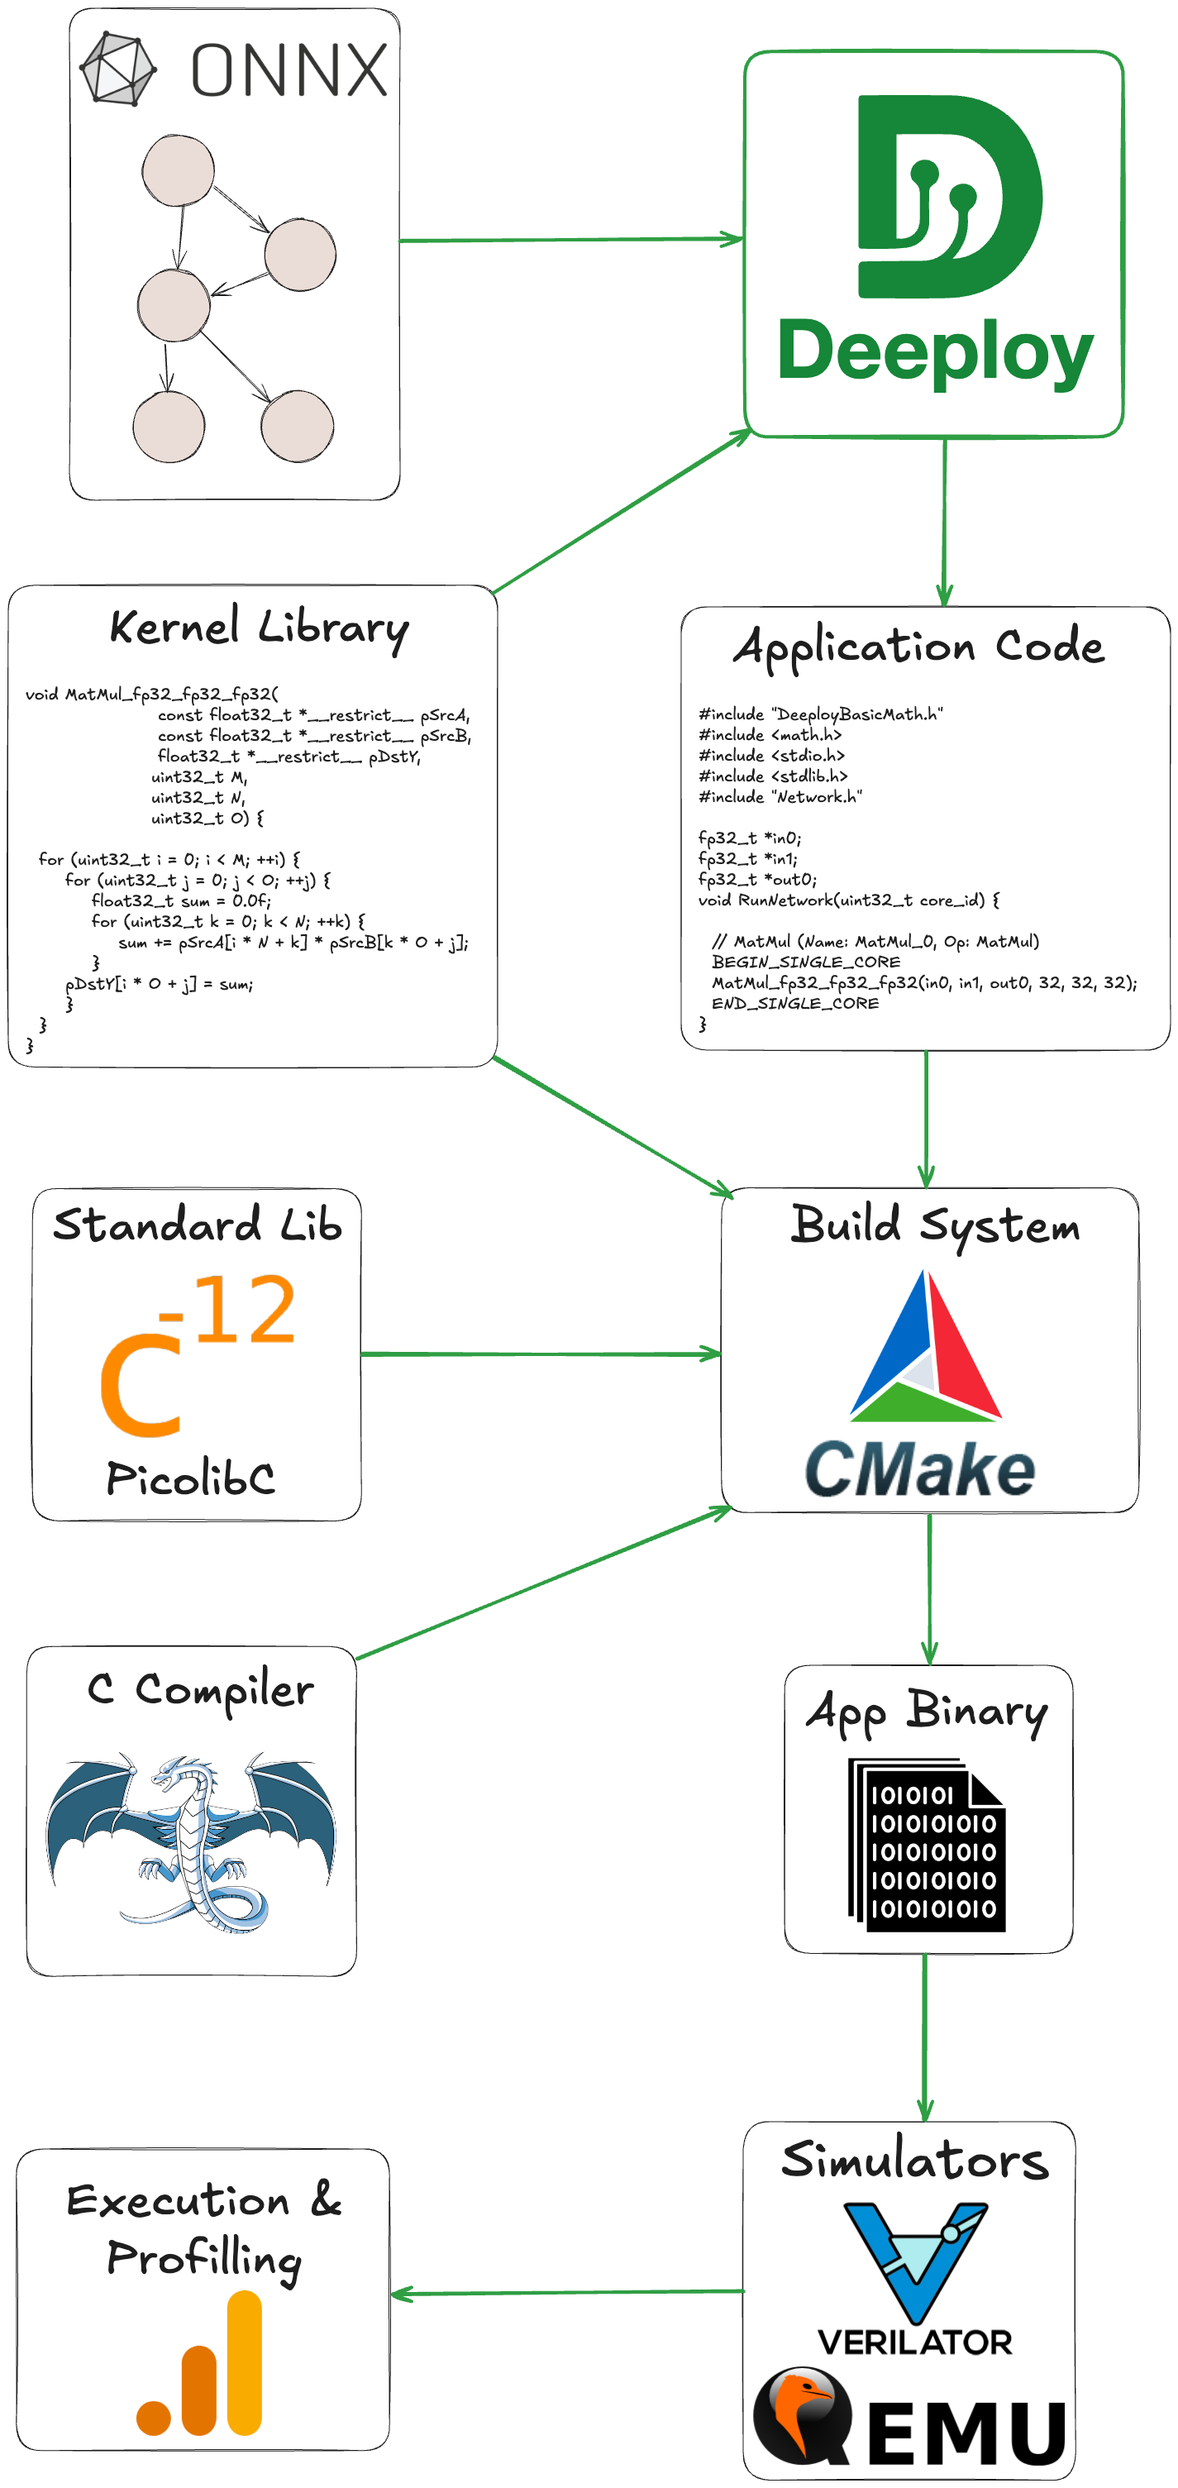
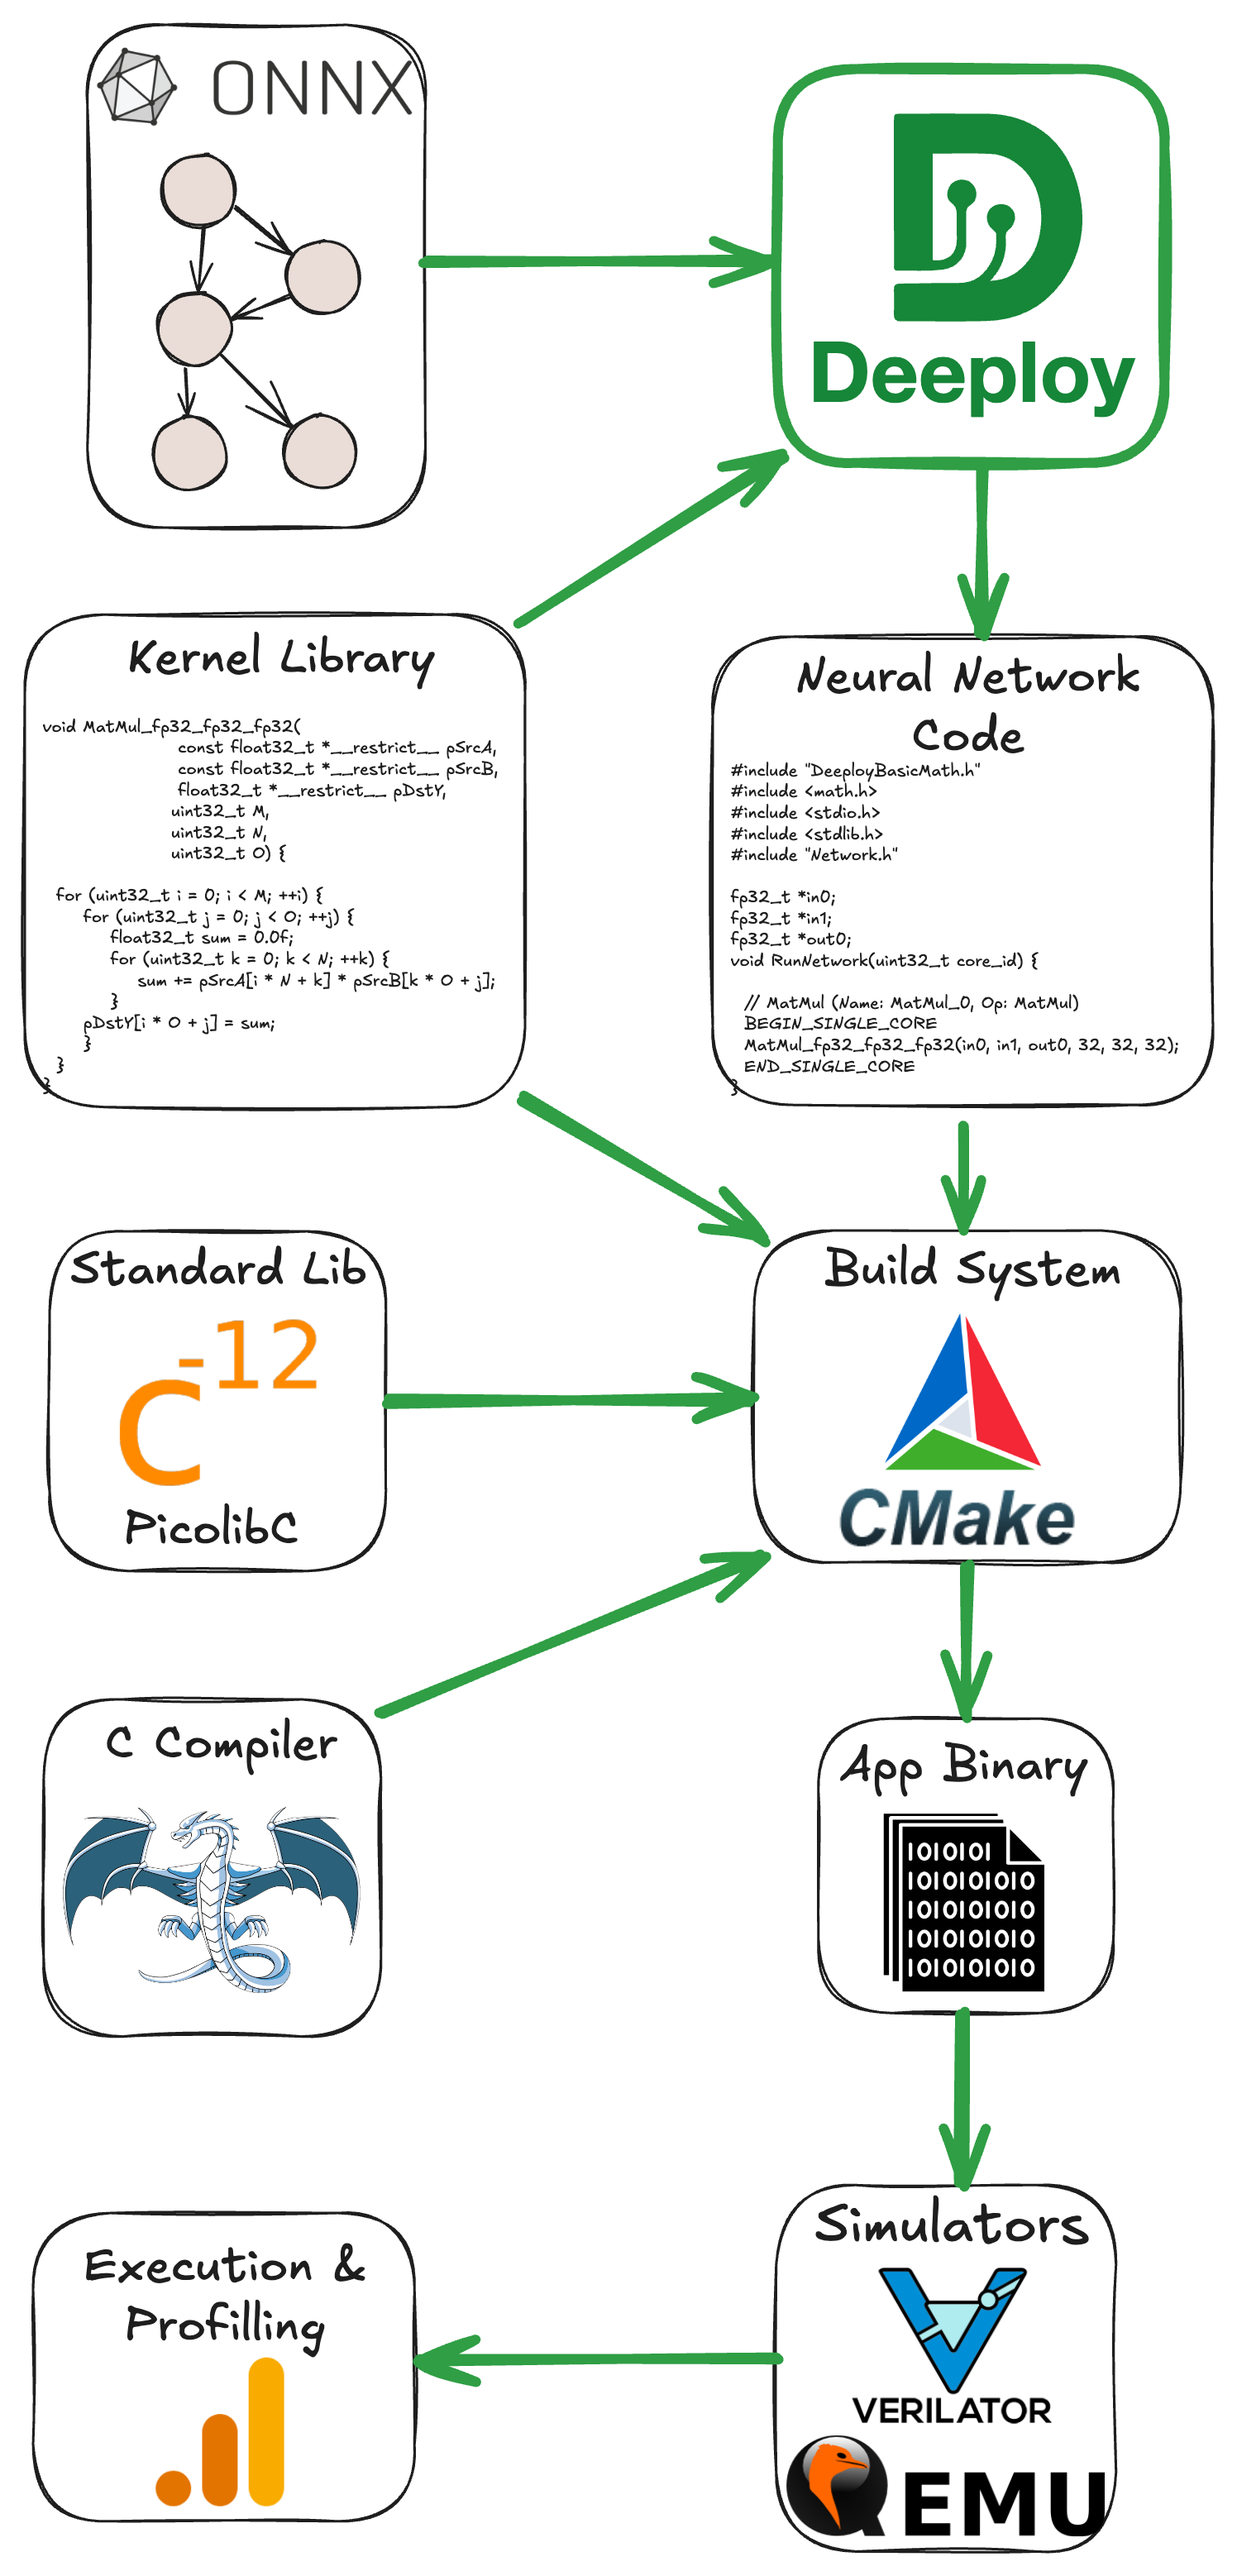
Update figures and first section done

diff --git a/Tutorials/SoCDAML.md b/Tutorials/SoCDAML.md
@@ -13,9 +13,9 @@ Date: 27th May 2025
 
 ## Installation
 
-A Deeploy Singularity container has been installed on your home directory, it should be a folder named `DeeployContainer`. You can find the `Deeploy` source code under `~/DeeployContainer/app/Deeploy`.
+A Singularity container with Deeploy and its dependencies has been installed on your home directory, it should be a folder named `DeeployContainer`. You can find the `Deeploy` source code under `~/DeeployContainer/app/Deeploy`.
 
-To enter a shell from the conatainer, from your home, simply run `singularity shell --writable --cleanenv --contain DeeployContainer`. Then you can naviguate to the `DeeployTest` folder with `cd /app/Deeploy/Deeploytest`.
+To enter a shell from the container, from your home, simply run `singularity shell --writable --cleanenv --contain DeeployContainer`. Then you can naviguate to the `DeeployTest` folder with `cd /app/Deeploy/Deeploytest`.
 
 From the `DeeployTest` folder you can use the `testRunner` to compile ONNXs and execute the output code with the appropriate simulators.
 
@@ -30,27 +30,118 @@ python testRunner_siracusa.py -t Tests/Adder --cores=8
 ```
 Once all these basic tests are passing, we can jump into the basics of Deeploy. 
 
-## I: Deeploy 101
+## I : Deeploy 101
 
-Paragraph to introduce Deeploy's I/O
+Deeploy is a compiler that transforms static computational graph (represented with the [ONNX format](https://onnx.ai/onnx/operators/)) into baremetal and (hopefully) optimized [C](https://www.c-language.org/). More specifically, it generates an application than can then be deployed on the desired platform.
 
-![Deeploy's System](Images/DeeploySystem.png)
+Hence, Deeploy's inputs are:
+- An ONNX file describing your neural network.
+- Input tensors.
+- Expected output tensors generated with your favorite framework (ONNXRuntime or Torch for instance).
 
-- Format of the tests and how to visualize the ONNX using Netron
-    - Visualize Add
-    - Visualize ResNet
-    - Visualize MicroLlama
-- Look at the generated code for the Adder on Generic -> Point at the Add kernel template in Deeploy
+Deeploy is shipped with a comprehensive testing framework conveniently named DeeployTest. This testing framework contains Test Runners for end-to-end testing of your network on a given platform. More specifically, a Test Runner compiles a given ONNX file, builds the project, feed the given inputs into the compiled neural network, and compare the output with the golden values to ensure correctness.
 
-## II: Tiny Llama on Siracusa
+If you followed this tutorial correctly, you already used Test Runners (e.g. `testRunner_siracusa.py`) to validate the Deeploy installation! We will dive into the details of the Test Runners CLI very soon, but first let's take a look at the tools and libraries used downstream of Deeploy.
 
-- Explain the impact of the arguments of the command line for executing tiny llama on Siracusa
+The figure below gives an overview of the deployment stack, as you can see, there are several steps before actually running the application. For the build system (*e.g.* the tool to organize compilation and linking), we use [CMake](https://cmake.org/). The default C compiler shipped with Deeploy is [LLVM 15](https://llvm.org/), but it supports GCC given that you provide a local installation. To generate the Application Binary, we link the Network Code with the necessary Kernel Libraries and a Standard C Library (here [Picolibc](https://github.com/picolibc/picolibc)). Then we feed this Application Binary to the appropriate simulator, from there you can verify correctness and benchmark the application.
+
+<p align="center">
+    <img src="Images/DeeploySystem.png" alt="Description" width="60%">
+</p>
+
+You can visualize the ONNX graphs using [Netron](https://netron.app/). Either use the webinterface or install the python package with `pip install netron`.
+
+> ✅ **Task:** Visualize the ONNX graph of the `Adder`, `MobileNetv2`, and `Transformer` 
+
+You can find the ONNX graphs in `DeeployTest/Tests/<TestName>/network.onnx`. The networks are increasing in complexity, `Adder` is a single node network for unit testing, while `MobileNetv2` is a simple sequential network mostly made of convolutions. Finally the `Transformer` network showcase a typical transformer block used both in Encoder or Decoder networks. If you want to peek at a very complex network, you can visualize `microLlama/microLlama128`.
+
+Now that we understand Deeploy's input, let's check the output generated code!
+
+> ✅ **Task:** Take a look at the code generated by Deeploy for the Generic platform.
+
+The generated code is located in the following directory: `DeeployTest/TEST_<PlatformName>` and the `Network.c` file is the interesting one. 
+
+For the `Adder` graph, the generated code is trivial, we simply use the template for the `Add` node of the Generic platform. You can find the template declaration in `Deeploy/Targets/Generic/Templates/AddTemplate.py`.
+
+Now if you want to look at something a bit more complex, run `python testRunner_generic.py  -t ./Tests/miniMobileNetv2` (from `DeeployTest`) and take a look at the generated code. There are two interesting points you can notice:
+- We hoist the constants at the top of the file.
+- Then in the `RunNetwork` function, we sequentially have node templates to execute the operands and malloc/free to manage the memory. You can open the ONNX graph of `miniMobileNetv2` on the side to try to match nodes of the graph with their generated code.
+
+> ✅ **Task:** Visualize the effect of passes on the ONNX graph for the Siracusa platform.
+
+Deeploy applies passes on the ONNX graph to transformer its topology in order to optimize its execution. Let's visualize the effect of the passes used in the Siracusa Platform. First, let's execute our `miniMobileNetv2` on Siracusa with `python testRunner_siracusa.py  -t ./Tests/miniMobileNetv2`. You can find the original ONNX graph at `Tests/miniMobileNetv2/network.c`, and the transformed ONNX graph at `DeeployTest/TEST_SIRACUSA/Tests/miniMobileNetv2/deeployStates/backend_post_binding.onnx`. Open both ONNX graphs side by side to compare them.
+
+You can notice the effect of two passes on the graph:
+- One pass is fusing the `Conv` and `RequantShift` nodes. This is a common technique named [Operator Fusion](https://medium.com/data-science/how-pytorch-2-0-accelerates-deep-learning-with-operator-fusion-and-cpu-gpu-code-generation-35132a85bd26) and used in many DNN compilers.
+- Another pass is adding a `Transpose` node before the `RequantizedConv` in order to align the tensor layout from CHW to HWC (where C = Channels, H = Height, and W = Width). The HWC tensor layout is required to use optimized Convolution kernels (to learn more, check out [this blog post](https://www.intel.com/content/www/us/en/developer/articles/technical/pytorch-vision-models-with-channels-last-on-cpu.html)).
+
+Now that you understand the basics of Deeploy, let's jump into the optimized deployment of a small language model on the Siracusa SoC.
+
+## II : Tiny Llama on Siracusa
+
+<!-- Quickly introduce TinyLLama, autoregressive and parallel mode. -->
+In this section, we will study the optimization of the deployment of a small language model. To fully understand this section, you need some basic understanding of Transformer's architecture and Language Model inference mode. If you need a refresher of Transformer's architecture check out the *Transformer Basics* section of [Lilian Weng's blog post](https://lilianweng.github.io/posts/2023-01-27-the-transformer-family-v2/#transformer-basics). 
+
+Now, Language Models have two inference modes:
+- The **Parallel Mode** (AKA *Prefill Mode*) is used to process in parallel the tokens of the prompts and generate the KV cache of the prompt as well as the first token of the Language Model's "reply". This mode contains mostly GEMMs.
+- The **Autoregressive Mode** is used to generate the rest of the Language Model's reply. It's using the KV cache from the previous step, generates a new KV cache entry, and predicts the next token. This mode contains mostly GEMVs.
+
+To summarize, to generate a Language Model reply of $N$ tokens, there is: 
+- One **Parallel Mode** inference to process the prompt and generate the first token.
+- $N-1$ **Autoregressive Mode** inferences to generate the rest of the tokens. 
+
+The slide below provides a visual representation to the **Parallel Mode** and **Autoregressive Mode**.
+
+<p align="center">
+    <img src="Images/Victor_Jung_EDGEAIForumDeeploy_S5.png" alt="Description" width="75%">
+</p>
+
+Let's also quickly refresh our knowledge of the Siracusa platform to understand what kind of hardware we are tying to deploy on. Below is the high-level block diagram of Siracusa, compute-wise we will mainly use:
+- The cluster of RV32 cores, they are modified to be great at crunching numbers. They feature [SIMD](), hardware loops (see the [RI5CY user manual](https://www.pulp-platform.org/docs/ri5cy_user_manual.pdf), p17), and the [XPULP](https://pulp-platform.org/docs/hipeac/acaces2021/04_PULP_Accelerators.pdf) ISA extensions.
+- The [NEUREKA](https://github.com/pulp-platform/neureka) NPU, an accelerator targeting integer convolutions.
+
+In terms of memories, we have:
+- L3: An off-chip RAM (not shown on the block diagram) of 16MB capacity. The L3 has it's own DMA that can transfer data to L2.
+- Weight Memory: An SRAM/MRAM-based *Weight Memory* to store constants and with a directly link to the NPU.
+- L2: An on-chip SRAM-based L2 memory of 2MB.
+- L1: A TCDM memory of size 256KB.
+
+The on-chip DMA indicated on the block diagram can transfer data between the Weight Memory, the L2, and the L1.
+
+
+
+<p align="center">
+    <img src="Images/Siracusa.png" alt="Description" width="75%">
+</p>
+
+Now that you understand the hardware and the kind of workload we want to execute. Let's deploy using various optimizations to study their impact. The first parameter we can play with is the number of cores from the RV32 cluster to use.
+
+> ✅ **Task:** Measure and compare the runtime of the `microLlama128` model using 1 and 8 cores. Compute the speedup ratio, why is it not 8?
+
+*Hint:* `python testRunner_siracusa.py --help` will list and explain the available flags.
+
+<details>
+  <summary>Solution</summary>
+
+  If you run `python testRunner_siracusa.py -t Tests/microLlama/microLlama128 --cores=1` and then `python testRunner_siracusa.py -t Tests/microLlama/microLlama128 --cores=8`, you should measure a runtime of ~16,1M cycles for 1 core and 3.1M cycles for 8 cores.
+
+  The speedup ratio is obtained via $\frac{\text{Runtime 1 cores}}{\text{Runtime 8 cores}} = 5.2$. Hence, using 8 cores instead of 1 leads to a 5.2 times speedup.
+
+  So why is the speedup ratio below 8? Mostly because all data movement is not overlapped with computation. Additionally, some kernels are probably not optimally parallelized for this specific network.
+</details>
+
+
+
+<!-- Explain the difference between tiled and non-tiled execution, ask them to see the difference in the runtime.  -->
+
+
+<!-- - Explain the impact of the arguments of the command line for executing tiny llama on Siracusa
 - Save the profiling traces for several networks in several modes
 - Some questions for the students:
   - When using NEUREKA, why do we observe a higher speedup in parallel model compared to autoregressive mode?
-  - Why is the impact of the NMS higher in autoregressive mode compared to parallel mode?
+  - Why is the impact of the NMS higher in autoregressive mode compared to parallel mode? -->
 
-## III: Visualizing and Understanding Tiling and Memory Allocation
+## III : Visualizing and Understanding Tiling and Memory Allocation
 
 
 
